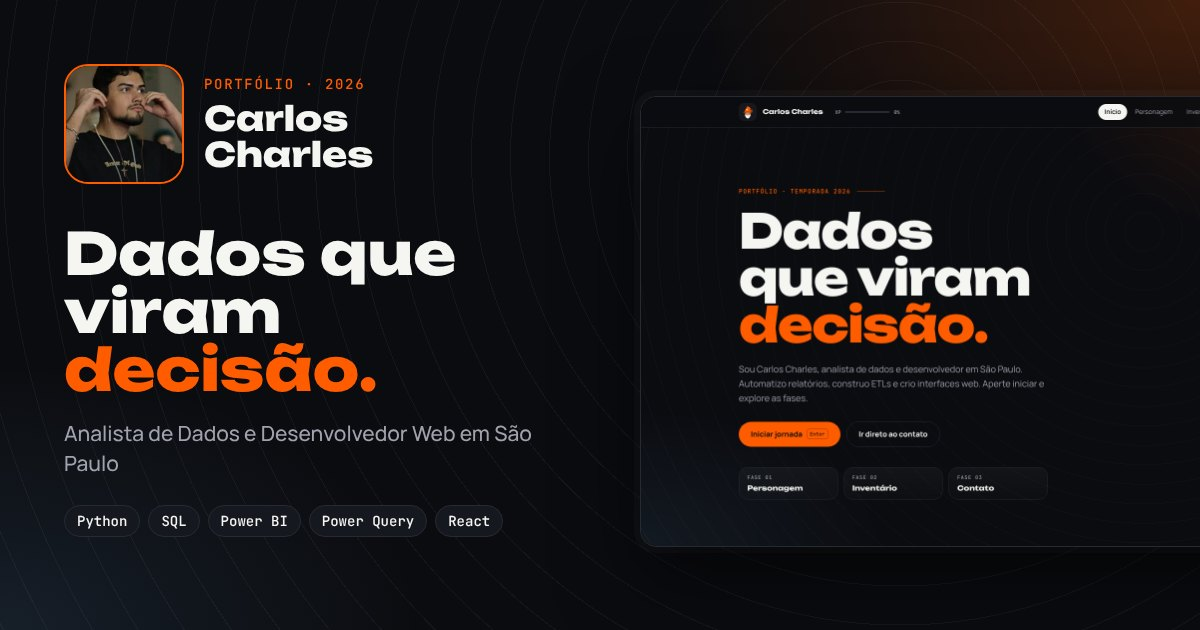
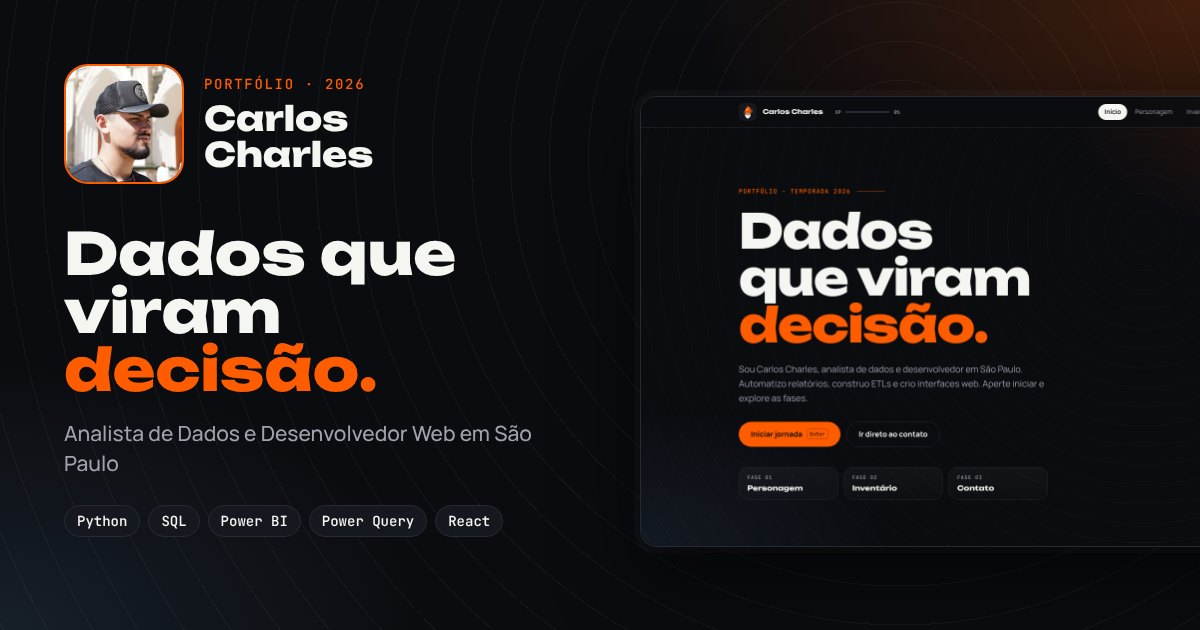
feat: trocar foto do personagem e da prévia de compartilhamento
Claude-Session: https://claude.ai/code/session_01GWDv1UhFRjWe56Q2TX8jqw

Changed region(s): [[0.0308, 0.0905, 0.1542, 0.3016]]

diff --git a/src/components/sections/Character.tsx b/src/components/sections/Character.tsx
@@ -31,7 +31,7 @@ export function Character() {
       <div className="grid gap-4 split:grid-cols-[320px_minmax(0,1fr)]">
         <Panel className="split:row-span-2">
           <div className="relative overflow-hidden rounded-2xl">
-            <img src={photo} alt="Foto de Carlos Charles" width={446} height={446} className="aspect-square w-full object-cover" />
+            <img src={photo} alt="Foto de Carlos Charles" width={640} height={640} className="aspect-square w-full object-cover" />
             <span aria-hidden className="absolute inset-x-0 bottom-0 h-1/3 bg-gradient-to-t from-bg/80 to-transparent" />
             <span className="absolute top-3 right-3 flex items-center gap-1.5 rounded-full bg-bg/80 px-2.5 py-1 font-mono text-[11px] text-cool">
               <span aria-hidden className="size-2 rounded-full bg-cool" />
